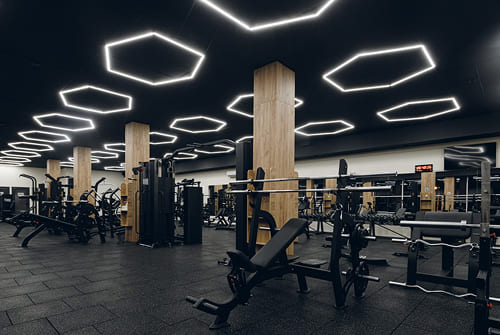
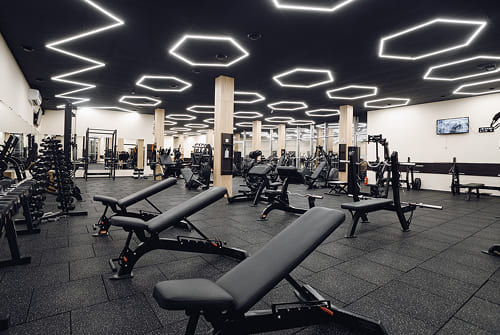
add styles

diff --git a/index.html b/index.html
@@ -261,8 +261,23 @@
                     </li>
 
                     <li class="clubs-section-list-item clubs-section-list-item-active">
-                        <img src="./images/B032.jpg"
-                            alt="PF Fit and Fast — a gym with indoor bikes behind a glass wall." width="320" />
+                        <picture class="clubs-section-photo">
+                            <source srcset="
+                                    ./images/clubs/cardio-zone-with-bikes-and-hexagon-lights-desk.jpg    1x,
+                                    ./images/clubs/cardio-zone-with-bikes-and-hexagon-lights-desk@2x.jpg 2x
+                                    " media="(min-width: 1158px)" />
+                            <source srcset="
+                                    ./images/clubs/cardio-zone-with-bikes-and-hexagon-lights-tab.jpg    1x,
+                                    ./images/clubs/cardio-zone-with-bikes-and-hexagon-lights-tab@2x.jpg 2x
+                                    " media="(min-width: 768px)" />
+                            <source srcset="
+                                    ./images/clubs/cardio-zone-with-bikes-and-hexagon-lights-mobile.jpg    1x,
+                                    ./images/clubs/cardio-zone-with-bikes-and-hexagon-lights-mobile@2x.jpg 2x
+                                    " media="(max-width: 767px)" />
+                            <img class="clubs-photo"
+                                src="./images/clubs/cardio-zone-with-bikes-and-hexagon-lights-mobile.jpg"
+                                alt="Cardio zone with exercise bikes in a modern gym with hexagon ceiling lights" />
+                        </picture>
 
                         <div class="clubs-section-list-div">
                             <h3 class="clubs-section-list-item-title">PF Fit and Fast</h3>
@@ -278,8 +293,22 @@
                     </li>
 
                     <li class="clubs-section-list-item">
-                        <img src="./images/B033.jpg" alt="PF Body Sculpting — studio with fitness balls and TRX straps."
-                            width="320" />
+                        <picture class="clubs-section-photo">
+                            <source srcset="
+                                    ./images/clubs/treadmill-zone-with-hexagon-lights-desk.jpg    1x,
+                                    ./images/clubs/treadmill-zone-with-hexagon-lights-desk@2x.jpg 2x
+                                    " media="(min-width: 1158px)" />
+                            <source srcset="
+                                    ./images/clubs/treadmill-zone-with-hexagon-lights-tab.jpg    1x,
+                                    ./images/clubs/treadmill-zone-with-hexagon-lights-tab@2x.jpg 2x
+                                    " media="(min-width: 768px)" />
+                            <source srcset="
+                                    ./images/clubs/treadmill-zone-with-hexagon-lights-mobile.jpg    1x,
+                                    ./images/clubs/treadmill-zone-with-hexagon-lights-mobile@2x.jpg 2x
+                                    " media="(max-width: 767px)" />
+                            <img class="clubs-photo" src="./images/clubs/treadmill-zone-with-hexagon-lights-mobile.jpg"
+                                alt="Row of treadmills in a modern gym with hexagon ceiling lights" />
+                        </picture>
 
                         <div class="clubs-section-list-div">
                             <h3 class="clubs-section-list-item-title">PF Body Sculpting</h3>
@@ -306,11 +335,16 @@
 
                 <ul class="subscriptions-section-list">
                     <li class="subscriptions-section-list-item">
-                        <svg class="hero-section-list-icon" width="40" height="40">
-                            <use href="./images/icons.svg#icon-gym"></use>
-                        </svg>
-                        <h3 class="subscriptions-section-list-title">HALL • 1 MONTH</h3>
-                        <p class="subscriptions-section-price">$45 / month</p>
+                        <div class="subscriptions-section-list-item-div">
+                            <div>
+                                <h3 class="subscriptions-section-list-title">HALL • 1 MONTH</h3>
+                                <p class="subscriptions-section-price">$45 / month</p>
+                            </div>
+                            <svg class="hero-section-list-icon" width="40" height="40">
+                                <use href="./images/icons.svg#icon-gym"></use>
+                            </svg>
+                        </div>
+
                         <p class="subscriptions-section-list-text">
                             Great for trying out the club, rebooting your routine, or
                             training during a short stay in the city.
@@ -318,11 +352,16 @@
                     </li>
 
                     <li class="subscriptions-section-list-item">
-                        <svg class="hero-section-list-icon" width="40" height="40">
-                            <use href="./images/icons.svg#icon-stationary-bicycle-gymnast"></use>
-                        </svg>
-                        <h3 class="subscriptions-section-list-title">HALL • 3 MONTHS</h3>
-                        <p class="subscriptions-section-price">$120 / 3 months</p>
+                        <div class="subscriptions-section-list-item-div">
+                            <div>
+                                <h3 class="subscriptions-section-list-title">HALL • 3 MONTHS</h3>
+                                <p class="subscriptions-section-price">$120 / 3 months</p>
+                            </div>
+                            <svg class="hero-section-list-icon" width="40" height="40">
+                                <use href="./images/icons.svg#icon-stationary-bicycle-gymnast"></use>
+                            </svg>
+                        </div>
+
                         <p class="subscriptions-section-list-text">
                             Our most popular option for beginners who want to build a stable
                             habit and see visible changes.
@@ -330,11 +369,16 @@
                     </li>
 
                     <li class="subscriptions-section-list-item subscriptions-section-list-item-active">
-                        <svg class="hero-section-list-icon" width="40" height="40">
-                            <use href="./images/icons.svg#icon-running-gym"></use>
-                        </svg>
-                        <h3 class="subscriptions-section-list-title">HALL • 6 MONTHS</h3>
-                        <p class="subscriptions-section-price">$210 / 6 months</p>
+                        <div class="subscriptions-section-list-item-div">
+                            <div>
+                                <h3 class="subscriptions-section-list-title">HALL • 6 MONTHS</h3>
+                                <p class="subscriptions-section-price">$210 / 6 months</p>
+                            </div>
+                            <svg class="hero-section-list-icon" width="40" height="40">
+                                <use href="./images/icons.svg#icon-running-gym"></use>
+                            </svg>
+                        </div>
+
                         <p class="subscriptions-section-list-text">
                             Perfect if you are serious about change: more time to progress,
                             better price per month.
@@ -342,11 +386,16 @@
                     </li>
 
                     <li class="subscriptions-section-list-item">
-                        <svg class="hero-section-list-icon" width="40" height="40">
-                            <use href="./images/icons.svg#icon-dumbbell-weight"></use>
-                        </svg>
-                        <h3 class="subscriptions-section-list-title">HALL • 12 MONTHS</h3>
-                        <p class="subscriptions-section-price">$360 / 12 months</p>
+                        <div class="subscriptions-section-list-item-div">
+                            <div>
+                                <h3 class="subscriptions-section-list-title">HALL • 12 MONTHS</h3>
+                                <p class="subscriptions-section-price">$360 / 12 months</p>
+                            </div>
+                            <svg class="hero-section-list-icon" width="40" height="40">
+                                <use href="./images/icons.svg#icon-dumbbell-weight"></use>
+                            </svg>
+                        </div>
+
                         <p class="subscriptions-section-list-text">
                             Maximum flexibility and savings for those who treat training as
                             a lifestyle – not just a phase.

diff --git a/css/hero.css b/css/hero.css
@@ -3,7 +3,7 @@
   border-radius: 15px;
   padding: 50px 30px;
 
-  border: 1px dashed rgba(55, 65, 81, 0.9);
+  border: 1px solid rgba(55, 65, 81, 0.9);
   box-shadow: 0 16px 40px rgba(0, 0, 0, 0.5);
 
   display: flex;
@@ -44,7 +44,21 @@
   align-items: center;
   gap: 20px;
   justify-content: space-between;
-  margin-bottom: 20px;
+  margin-bottom: 30px;
+}
+
+.hero-section-list-item {
+  display: flex;
+  align-items: center;
+  justify-content: center;
+
+  padding: 10px;
+  width: 25px;
+  height: 25px;
+
+  border-radius: 10px;
+  border: 1px dashed rgba(55, 65, 81, 0.9);
+  box-shadow: 0 8px 20px rgba(0, 0, 0, 0.4);
 }
 
 .hero-section-list-icon {
@@ -74,5 +88,11 @@
 
   .hero-photo {
     min-width: 500px;
+  }
+
+  .hero-section-list-item {
+    padding: 10px;
+    width: 30px;
+    height: 30px;
   }
 }

diff --git a/css/global.css b/css/global.css
@@ -260,7 +260,7 @@ button:focus-visible {
   position: relative;
   border-radius: 15px;
   padding: 50px 30px;
-  border: 1px dashed rgba(55, 65, 81, 0.9);
+  border: 1px solid rgba(55, 65, 81, 0.9);
   box-shadow: 0 16px 40px rgba(0, 0, 0, 0.5);
 }
 
@@ -274,6 +274,7 @@ button:focus-visible {
       rgba(17, 18, 23, 0.99)
     ),
     url('../images/image.jpg');
+
   background-repeat: no-repeat;
   background-position: center center;
   background-size: cover;

diff --git a/css/subscriptions.css b/css/subscriptions.css
@@ -15,10 +15,6 @@
 }
 
 .subscriptions-section-list-item .hero-section-list-icon {
-  position: absolute;
-  top: 18px;
-  right: 24px;
-
   width: 40px;
   height: 40px;
   padding: 8px;
@@ -30,6 +26,13 @@
   fill: var(--accent);
   display: block;
   pointer-events: none;
+
+  flex-shrink: 0;
+}
+
+.subscriptions-section-list-item-div {
+  display: flex;
+  justify-content: space-between;
 }
 
 .subscriptions-section-list-title {

diff --git a/css/clubs.css b/css/clubs.css
@@ -68,6 +68,10 @@
   .clubs-photo {
     min-width: 250px;
   }
+
+  .clubs-section-list-div {
+    padding-left: 20px;
+  }
 }
 
 @media screen and (min-width: 1158px) {
@@ -84,5 +88,9 @@
 
   .clubs-photo {
     min-width: 350px;
+  }
+
+  .clubs-section-list-div {
+    padding-left: 0;
   }
 }
